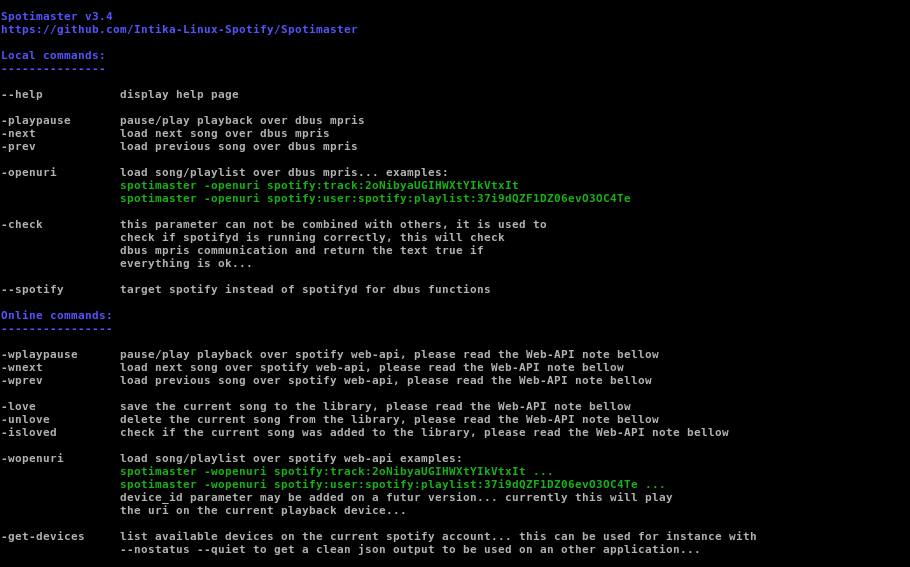
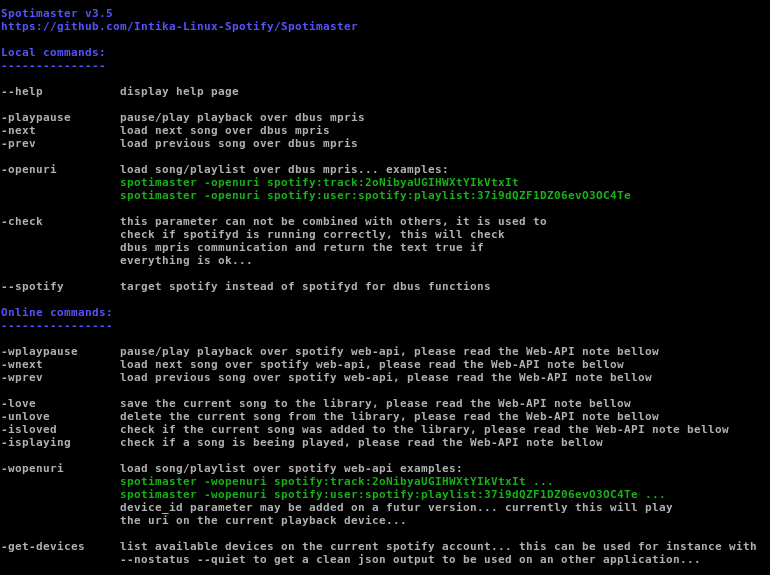
v3.5 adding isplaying, fix python version and update spotty command

diff --git a/spotimaster.py b/spotimaster.py
@@ -8,24 +8,32 @@ Link = 'https://github.com/Intika-Linux-Spotify/Spotimaster'
 # intika - http://github.com/intika
 
 #   
-# Install:   
-# 1. Change the python value on the first line to match your version (using python3.6 by default)... 
-#    this application require python3.x
-# 2. Check the required applications/packages bellow
-# 3. Run 'chmod 755 ./spotimaster.py'
-# 4. Link or copy the application to bin folder with
+# Install:
+# 1. Check the required applications/packages bellow
+# 2. Run 'chmod 755 ./spotimaster.py'
+# 3. Link or copy the application to bin folder with
 #    'ln -s ./spotimaster.py /usr/bin/spotimaster'
-# 5. Install the required packages...  
+# 4. Install the required packages...  
 # required packages are: dbus-python, requests, urllib3 ('pip3 install dbus-python requests urllib3')
-# required applications: spotifyd/spotify, spotty for web-api functions and dbus-send for openuri command
-# spotty is available here: https://github.com/michaelherger/spotty, git clone it then use 'cargo build --release'
-# you do need an app-id to use spotty, you can generate it here https://developer.spotify.com/dashboard/applications/
-# app-secret and web authorisations (redirects...) are not required.
+# required applications: spotifyd/spotify, spotty for web-api functions and dbus-send for openuri 
+# command spotty is available here: https://github.com/michaelherger/spotty 
+# git clone it then use 'cargo build --release'.
+#
+# To use this app you do need an app-id; you can generate it here 
+# https://developer.spotify.com/dashboard/applications/
+# app-secret, web authorizations, login and password are not needed.
+# you only need the app-id :), note that the app-id need to be yours (belong to the target account) 
+# for this to work. 
+#
+# Disclaimer : using spotty's code to connect to Spotify's API is probably forbidden by them. 
+# Use at your own risk.  
 #
 # Note :
 # - Change the cache location if required by editing the variable 'cache_location' bellow
-# - If you want to save spotty parameters directly here, you can edit the variable 'spotty_params' bellow, leave empty if not used. 
-# - If you want to use this application's dbus function with an other player change the playername bellow
+# - If you want to save spotty parameters directly here, you can edit the variable 
+#   'spotty_params' bellow, leave empty if not used. 
+# - If you want to use this application's dbus function with an other player change 
+#   the playername bellow
 #
 
 cache_location = '/tmp'
@@ -134,7 +142,7 @@ if (not len(sys.argv) > 1) or (sys.argv[1] == '--help'):
     print('')
     print('                 examples:')
     print('\033[0;32;40m')
-    print('                 spotimaster -love -n APP-NAME-WHATEVER -c /tmp/spotty -u USERNAME -t -i MY-APP-ID -p MYPASSWORD \\') 
+    print('                 spotimaster -love -n MY-APP-NAME -c /tmp/spotty -t -i MY-APP-ID \\') 
     print('                 --scope user-modify-playback-state,user-library-modify,user-read-currently-playing,user-read-playback-state')
     print('\033[0;37;40m')
     print('')

diff --git a/README.md b/README.md
@@ -7,29 +7,27 @@ Control spotifyd/spotify with dbus and web-api...
 
 ![Alt text](screens-2.png?raw=true "Advanced")
 
-**Features not listed on the captures:**
-
-- isplaying
-
 # Install:   
 ```
-#   
-# Install:   
-# 1. change the python value on the first line to match your version (using python3.6 by default)... 
-#    this application require python3.x
-# 2. Check the required applications/packages bellow
-# 3. Run 'chmod 755 ./spotimaster.py'
-# 4. Link or copy the application to bin folder with
+# 
+# 1. Check the required applications/packages bellow
+# 2. Run 'chmod 755 ./spotimaster.py'
+# 3. Link or copy the application to bin folder with
 #    'ln -s ./spotimaster.py /usr/bin/spotimaster'
-# 5. Install the required packages...  
+# 4. Install the required packages...  
 # required packages are: dbus-python, requests, urllib3 ('pip3 install dbus-python requests urllib3')
 # required applications: spotifyd/spotify, spotty for web-api functions and dbus-send for openuri 
 # command spotty is available here: https://github.com/michaelherger/spotty 
 # git clone it then use 'cargo build --release'.
 #
-# You do need an app-id to use spotty, you can generate it here 
+# To use this app you do need an app-id; you can generate it here 
 # https://developer.spotify.com/dashboard/applications/
-# app-secret and web authorisations, are not required.
+# app-secret, web authorizations, login and password are not needed.
+# you only need the app-id :), note that the app-id need to be yours (belong to the target account) 
+# for this to work. 
+#
+# Disclaimer : using spotty's code to connect to Spotify's API is probably forbidden by them. 
+# Use at your own risk.  
 #
 # Note :
 # - Change the cache location if required by editing the variable 'cache_location' bellow
